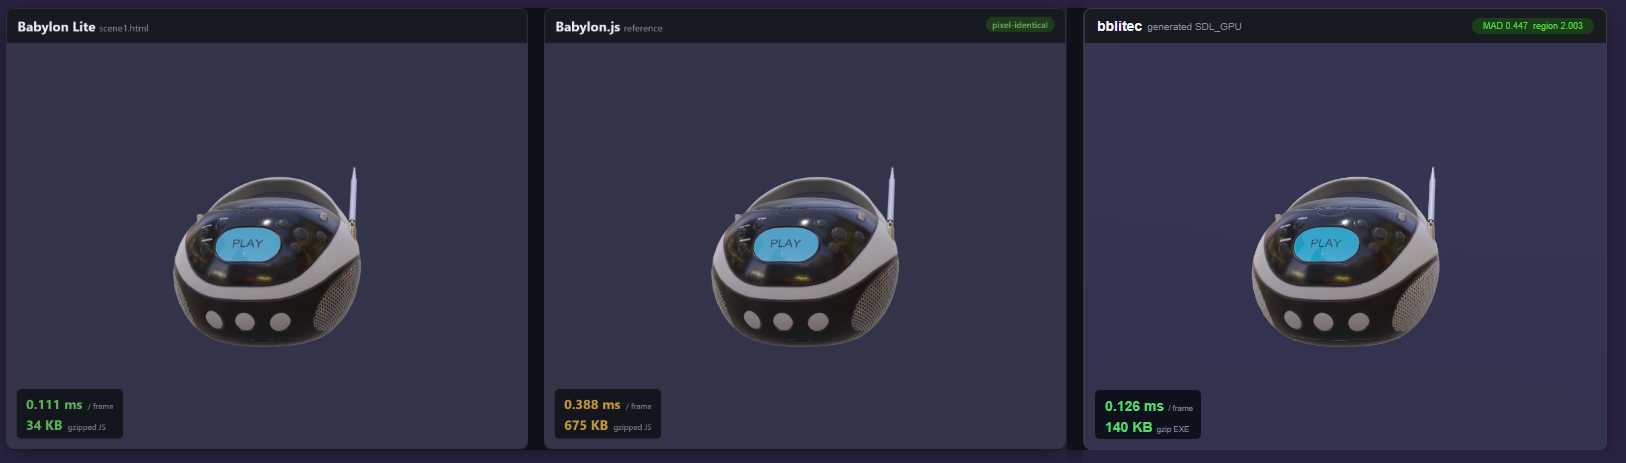
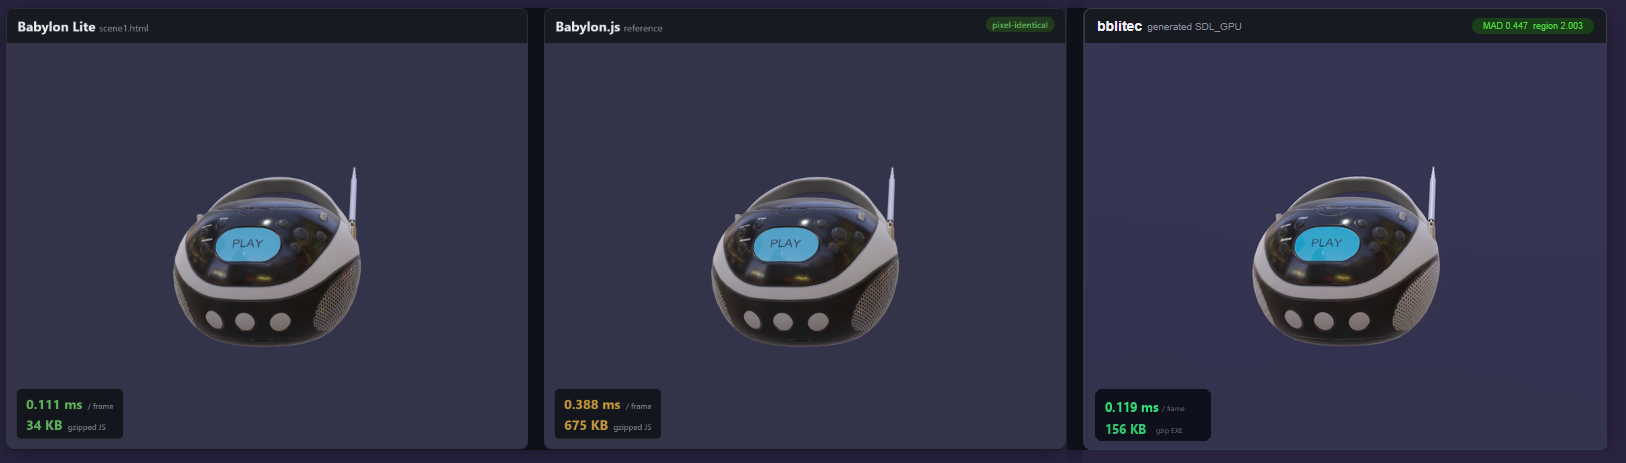
Refresh documentation and BoomBox comparison
Synchronize documentation with the expanded scene/compiler surface and update the generated BoomBox panel from the fresh VS18 capture, parity report, benchmark, and executable size.

Copilot-Session: 87ef8b8e-7295-4ff1-8150-ae097b0a41e5

Changed region(s): [[0.7688, 0.4838, 0.8303, 0.6955], [0.6765, 0.8467, 0.7688, 0.9676], [0.861, 0.4233, 0.8918, 0.4838]]

diff --git a/README.md b/README.md
@@ -5,11 +5,13 @@
 This repository contains a working, deliberately narrow Babylon Lite native compiler prototype. It accepts scene-building TypeScript written against `@babylonjs/lite`, removes browser-only setup, lowers supported API calls to typed C++, and emits a native source manifest containing only the runtime features reached by the program.
 
 Curated targets currently include primitives, the BoomBox glTF demo, and
-Babylon Lite parity scenes including the HillValley Standard-material
-geometry-output target. New repository-local TypeScript scenes
-can also be processed without registry edits: defaults for generated output,
-native build, reference capture, and parity artifacts are derived from the
-source path.
+Babylon Lite parity scenes 10, 13, 32, 116, 145, 146, 163, 168, 248, 257, 266,
+273, and 274. They cover PBR/Standard rendering, external glTF and `.babylon`
+assets, frame-graph geometry/depth outputs, custom shader alpha behavior,
+negative transforms, runtime scene mutation, and alpha-to-coverage. New
+repository-local TypeScript scenes can also be processed without registry
+edits: defaults for generated output, native build, reference capture, and
+parity artifacts are derived from the source path.
 
 **Status:** research prototype. The accepted TypeScript and Babylon Lite API surface is intentionally constrained and validated at transpile time.
 
@@ -91,7 +93,7 @@ runtime module loading, and general browser APIs remain future work.
 The current vertical migration generates these implementations from pinned upstream TypeScript:
 
 - `createEngine` and `startEngine` API wrappers from `engine/engine.ts`, delegating host creation and the run loop to PAL
-- `createHemisphericLight` from `light/hemispheric.ts`
+- hemispheric and point-light factories from pinned light modules
 - `localMatrixFromDirection` from `light/light-matrix.ts`
 - `createArcRotateCamera` from `camera/arc-rotate.ts`
 - `createFreeCamera` and FreeCamera controls from `camera/free-camera.ts` and
@@ -108,12 +110,14 @@ The current vertical migration generates these implementations from pinned upstr
   `loader-babylon/load-babylon.ts`, including inline geometry/submeshes,
   point lights, FreeCamera data, Standard diffuse/ambient/specular/opacity
   textures, alpha cutouts, and cube reflections
-- box/ground mesh factory defaults from `mesh/create-box.ts`, `mesh/create-ground.ts`, and `mesh/mesh-factories.ts`
-- sphere topology from `mesh/create-sphere.ts`
+- box, ground, plane, sphere, and torus geometry from pinned mesh factories
 - `createStandardMaterial` defaults from `material/standard/create-standard-material.ts`
-- solid-texture quantization and `createPbrMaterial` records
+- solid-texture quantization, reached PBR scalar fields, Standard/PBR no-color
+  material views, and typed custom shader variants
 - render-item planning, camera matrices, and PBR uniforms from
   `frame-graph/render-task.ts` and scene uniform sources
+- typed frame-graph render targets/tasks, 7+4 geometry MRTs, viewport blits,
+  depth-only passes, material overrides, and MSAA resolve
 - GGX/Smith lighting, specular AA, SH irradiance, BRDF energy conservation,
   tone mapping, and contrast from the PBR/IBL shader modules
 - transparent background-ground and RGBA16F DDS skybox passes from Babylon
@@ -232,11 +236,20 @@ cd ..\..
 npm run shaders:build
 ```
 
-On the development machine, the optimized BoomBox CPU fallback measured **5.516 ms/frame** average CPU submission. The compiler-generated 4x-MSAA material/IBL/skybox SDL_GPU Direct3D 12 path measured **0.126 ms average / 0.089 ms median**, approximately **44× faster** CPU-side.
+Each configured native build snapshots its reached shaders into that build
+tree. Rebuild the native target after regenerating or recompiling its shaders;
+one scene's regeneration cannot silently change another scene's executable.
+
+On the development machine, the optimized BoomBox CPU fallback measured **5.516 ms/frame** average CPU submission. The freshly regenerated 4x-MSAA material/IBL/skybox SDL_GPU Direct3D 12 path measured **0.119 ms average / 0.083 ms median**, approximately **46× faster** CPU-side.
 
 The GPU path is the default for generated PBR scenes. Set `BBLITE_GPU=0` only when the deterministic CPU fallback is required.
 
-The SDL_GPU path now supports deterministic swapchain readback, ArcRotate mouse controls, normal and metallic-roughness maps, emissive materials, glTF `OPAQUE`/`MASK`/`BLEND` alpha modes, single- and double-sided material buckets, Babylon `.env` cubemap mips, spherical-harmonic irradiance, and the BRDF LUT. Run its local visual regression gate with:
+The SDL_GPU path now supports deterministic swapchain readback, ArcRotate and
+FreeCamera controls, normal and metallic-roughness maps, emissive materials,
+glTF `OPAQUE`/`MASK`/`BLEND` alpha modes, single- and double-sided material
+buckets, typed custom shader variants, alpha testing/blending/coverage,
+offscreen frame-graph passes, Babylon `.env` cubemap mips, spherical-harmonic
+irradiance, and the BRDF LUT. Run its local visual regression gate with:
 
 ```powershell
 npm run parity:boombox:gpu
@@ -329,22 +342,22 @@ and device-specific GPU parity are run on known toolchains and drivers.
 | Engine | `createEngine`, `createSceneContext`, `registerScene`, `startEngine` |
 | Scene | `scene.clearColor`, `scene.camera`, `scene.fixedDeltaMs`, `addToScene`, reached `onBeforeRender` callbacks |
 | Cameras | `createArcRotateCamera`, `createFreeCamera`, `createDefaultCamera`, `attachControl`, `attachFreeControl`, camera projection properties |
-| Lighting | `createHemisphericLight`; point lights loaded from `.babylon` |
-| Geometry | `createBox`, `createGround`, `createPlane`, `createSphere`, `createTorus`, `loadGltf` for triangle GLB files with embedded images, `loadBabylon` for inline triangle geometry/submeshes |
+| Lighting | `createHemisphericLight`, reached `createPointLight`, and point lights loaded from `.babylon` |
+| Geometry | `createBox`, `createGround`, `createPlane`, `createSphere`, `createTorus`, external or binary triangle glTF with PNG/JPEG images, and `loadBabylon` inline geometry/submeshes |
 | Frame graph | `createRenderTarget`, fixed-size depth-only `createRenderTargetTexture`, `createRenderTask`, per-task cameras and `addMesh` material overrides, `createGeometryRendererTask`, ordered task insertion, viewport copies, and MSAA resolve |
 | Environment | `loadEnvironment` with Babylon `.env` irradiance, RGBD specular cubemap mips, BRDF LUT, DDS skybox, and generated ground |
-| Materials | `createStandardMaterial`, Standard/PBR no-color material views, unlit Standard depth-texture display, `.babylon` Standard diffuse/ambient/specular/opacity/cube-reflection textures, glTF metallic-roughness, normal, ORM, emissive, alpha modes, and double-sided state |
+| Materials | `createStandardMaterial`, reached PBR scalar fields, Standard/PBR no-color views, unlit depth-texture display, typed custom shader variants, `.babylon` diffuse/ambient/specular/opacity/reflection textures, and glTF metallic-roughness, normal, ORM, emissive, alpha, and double-sided state |
 | Transforms | `position.set`, `rotation.set`, `scaling.set`, and component assignments on `position`, `rotation`, and `scaling` |
 | Expressions | Numeric literals, variables, `Math.PI`, unary `+/-`, `+ - * /`, callback increments, and numeric conditions |
 | Browser erasure | `document.getElementById(...)`, `document.querySelector(...)`, `HTMLCanvasElement`, `async`, `await`, and the outer `main().catch(...)` |
 
 Current boundaries are intentional: one entry file, one engine, append-only
-runtime scene membership from reached callbacks, embedded-image triangle
-glTF/GLB only, and no arbitrary object
-allocation, animation, skinning, morphing, physics, custom user shaders,
-networking, or audio graph yet. The GPU path uses a depth buffer and generated
-per-pixel PBR/IBL shaders. Material behavior is driven by glTF metadata; there
-are no BoomBox geometry or reference-image heuristics.
+runtime scene membership from reached callbacks, triangle glTF/GLB and the
+reached `.babylon` slice, and no arbitrary object allocation, animation,
+skinning, morphing, physics, general user-defined WGSL, networking, or audio
+graph yet. Custom shaders are limited to typed reached variants. Material
+behavior is driven by source metadata; there are no BoomBox geometry or
+reference-image heuristics.
 
 ## Tree shaking and data layout
 
@@ -363,9 +376,10 @@ Boehm GC remains a reasonable optional compatibility layer once the compiler sup
 1. Replace specialized shader templates with a general composed-WGSL/IR
    lowering pipeline.
 2. Validate Vulkan/SPIR-V and Metal/MSL on real devices.
-3. Add a second unrelated glTF scene as a generalization gate.
-4. Expand TypeScript and glTF coverage: modules, functions, loops, callbacks,
-   animation, skinning, morphing, and extensions.
+3. Add scene 8 as the next contained gate for HDR environments, PBR glass
+   alpha, reflectance, intensities, and image-processing overrides.
+4. Close remaining PBR gaps such as normal scale, occlusion, transparent
+   ordering, and generated-ground composition.
 5. Compile assets into a native packed format and add optional managed
    allocation only for JavaScript semantics that require it.
 

diff --git a/docs/architecture.md b/docs/architecture.md
@@ -68,16 +68,19 @@ For the supported generated scene paths, output owns:
 
 - engine and scene API wrappers
 - scene registration and resource routing
-- ArcRotate camera creation, framing, eye position, inertia, and controls
-- hemispheric light records and local matrices
+- ArcRotate and FreeCamera creation, framing, matrices, inertia, and controls
+- hemispheric and point-light records
 - `.env` parsing and spherical-harmonic conversion
-- typed GLB/JSON parsing, accessors, geometry, hierarchy, materials, and
-  embedded textures
+- external glTF packaging, typed GLB/JSON parsing, accessors, geometry,
+  hierarchy, materials, PNG/JPEG textures, and generated missing normals
+- the reached `.babylon` geometry/material/light/camera slice
 - render-item selection and camera view-projection matrices
-- PBR and background uniform preparation
+- Standard/PBR/custom-shader uniform preparation and reached material views
 - glTF material alpha and double-sided metadata
-- Babylon PBR, IBL, tone mapping, specular AA, DDS skybox, and background
-  shader sources
+- frame-graph render targets/tasks, geometry MRTs, depth-only passes, viewport
+  blits, material overrides, and MSAA resolve
+- Babylon PBR, Standard, custom alpha, IBL, tone mapping, specular AA, DDS
+  skybox, and background shader sources
 
 Generated files are written under `generated/<scene>/upstream`. The
 `provenance.json` file records the upstream modules and symbols used.
@@ -127,7 +130,9 @@ SDL_GPU is the default for generated PBR scenes:
 | macOS / iOS | Metal | MSL |
 
 Shader sources are emitted into `generated/<scene>/upstream/shaders`. DXIL and
-SPIR-V are compiled with DXC; MSL source is emitted directly.
+SPIR-V are compiled with DXC; MSL source is emitted directly. Native builds
+snapshot their reached shader directory so later generation for another scene
+cannot invalidate an existing executable.
 
 Important cross-API details:
 
@@ -140,6 +145,10 @@ Important cross-API details:
   metallic-roughness textures are linear.
 - Material draw buckets honor glTF `OPAQUE`, `MASK`, `BLEND`, alpha cutoff,
   and double-sided flags.
+- Generated frame-graph paths support Standard/PBR geometry outputs, depth-only
+  material views, viewport copies, and hardware MSAA resolve.
+- Typed custom shader variants cover conventional alpha blend/test/discard and
+  alpha-to-coverage; arbitrary user WGSL is not yet accepted.
 - Screenshot capture renders to a readable color texture, blits to the
   write-only swapchain, then downloads from the readable texture.
 

diff --git a/.github/copilot-instructions.md b/.github/copilot-instructions.md
@@ -106,11 +106,15 @@ cmake --build native\build-boombox-release
 cmake --build native\build-scene10-release
 cmake --build native\build-scene13-release
 cmake --build native\build-scene32-release
+cmake --build native\build-scene116-release
+cmake --build native\build-scene145-release
 cmake --build native\build-scene146-release
+cmake --build native\build-scene163-release
 cmake --build native\build-scene168-release
 cmake --build native\build-scene248-release
 cmake --build native\build-scene257-release
 cmake --build native\build-scene266-release
+cmake --build native\build-scene273-release
 cmake --build native\build-scene274-release
 ```
 
@@ -139,11 +143,15 @@ npm run parity:boombox:gpu
 npm run parity:scene10
 npm run parity:scene13
 npm run parity:scene32
+npm run parity:scene116
+npm run parity:scene145
 npm run parity:scene146
+npm run parity:scene163
 npm run parity:scene168
 npm run parity:scene248
 npm run parity:scene257
 npm run parity:scene266
+npm run parity:scene273
 npm run parity:scene274
 npm run parity:diagnostics
 ```
@@ -153,7 +161,7 @@ Current measured baselines:
 - CPU fallback: full MAD `4.452`, foreground MAD `21.191`,
   approximately `5.516 ms/frame`.
 - Generated SDL_GPU/D3D12 with Babylon-default 4x MSAA: full MAD `0.447`,
-  foreground MAD `2.003`, approximately `0.126 ms` average and `0.089 ms`
+  foreground MAD `2.003`, approximately `0.119 ms` average and `0.083 ms`
   median.
 - GPU regression ceilings: full MAD `1.0`, foreground MAD `8.0`.
 - Upstream target: full MAD `0.19`, foreground MAD `0.03`, 99% foreground

diff --git a/docs/status.md b/docs/status.md
@@ -3,8 +3,8 @@
 ## Supported vertical slice
 
 The compiler currently supports the primitives example, the authoritative
-BoomBox parity scene, and Babylon Lite parity scenes 10, 13, 32, 145, 146, 168,
-248, 257, 266, 273, and 274.
+BoomBox parity scene, and Babylon Lite parity scenes 10, 13, 32, 116, 145,
+146, 163, 168, 248, 257, 266, 273, and 274.
 
 | Area | Current support |
 | --- | --- |
@@ -28,9 +28,9 @@ Development machine:
 | Renderer | Full MAD | Foreground MAD | Submission time |
 | --- | ---: | ---: | ---: |
 | CPU fallback | 4.452 | 21.191 | 5.516 ms/frame |
-| Generated SDL_GPU/D3D12, 4x MSAA | 0.447 | 2.003 | 0.126 ms average, 0.089 ms median |
+| Generated SDL_GPU/D3D12, 4x MSAA | 0.447 | 2.003 | 0.119 ms average, 0.083 ms median |
 
-The GPU path is approximately 44 times faster CPU-side than the fallback.
+The GPU path is approximately 46 times faster CPU-side than the fallback.
 
 Current GPU diff attribution:
 
@@ -304,6 +304,8 @@ Remaining compiler work includes:
 1. Replace specialized shader templates with a general Babylon WGSL/IR
    pipeline, potentially using Tint or SDL_shadercross.
 2. Validate generated SPIR-V on Vulkan and MSL on Metal hardware.
-3. Add winding and negative-scale parity targets.
-4. Expand glTF material extensions and animation support toward scene 176.
+3. Add scene 8 for HDR environment loading and PBR glass alpha/intensity
+   controls.
+4. Close the measured Standard/PBR geometry-output residuals and remaining
+   BoomBox material differences.
 5. Continue shrinking PAL to platform-only mechanics.

diff --git a/docs/fidelity.md b/docs/fidelity.md
@@ -132,12 +132,15 @@ hotspots back to the glTF render item.
 
 The same production PBR shader is macro-specialized into a diagnostics MRT
 variant that captures encoded world normal, reflectivity, irradiance, IBL,
-normalized view depth, surface albedo, and direct light. Babylon Lite's public
-PBR geometry-renderer task captures equivalent WebGPU oracles for direct
-buffer-by-buffer comparison. Because SDL_GPU supports at most four color
-targets, the native diagnostics are emitted as two passes over the same scene
-and shader formulas. Both passes use the generated 4x MSAA sample count and
-resolve each attachment before readback, matching Babylon Lite's geometry task.
+normalized view depth, surface albedo, and direct light. Those focused
+BoomBox diagnostics use two passes because SDL_GPU exposes four color targets.
+Both passes use generated 4x MSAA and resolve each attachment before readback.
+
+The generated frame-graph geometry renderer is a separate production path. It
+supports all eleven Babylon geometry texture types split across 7+4 MRT passes,
+optional real color, independent depth, Standard and PBR material views,
+viewport impostor copies, and MSAA resolve. Scenes 145 and 146 gate that path
+against Babylon Lite WebGPU references.
 
 ## Validation artifact meaning
 

diff --git a/TODO.md b/TODO.md
@@ -75,15 +75,16 @@ baselines are recorded in `docs/status.md`.
 - [x] Scene 146: PBR geometry renderer outputs, 7+4 MRT split, blits, and resolve.
 - [x] Scene 145: Standard-material geometry renderer outputs via `loadBabylon`.
 - [x] Scene 116: Standard/PBR no-color depth views and offscreen depth display.
+
 ### Next balanced scene batch
 
 1. [ ] Scene 8: HDR glass, PBR alpha, reflectance, material intensities, and
    exposure/contrast.
 
-This batch deliberately reuses the custom shader and frame-graph work before
-adding two contained runtime/PBR extensions. Scene 176 remains deferred until
-scene-color transmission, IOR, volume, and skybox-mode behavior have smaller
-independent gates.
+Scenes 163, 116, and 273 completed the custom-shader, frame-graph, and runtime
+mutation stages of this batch. Scene 8 is the remaining contained PBR/HDR
+extension. Scene 176 remains deferred until scene-color transmission, IOR,
+volume, and skybox-mode behavior have smaller independent gates.
 
 - [ ] Scene 176: MosquitoInAmber transmission/IOR/volume.
 

diff --git a/docs/development.md b/docs/development.md
@@ -60,6 +60,10 @@ native build. It compiles only that scene's shader directory. Set `VCPKG_ROOT`
 when CMake cannot discover the vcpkg toolchain;
 set `CMAKE_COMMAND` when `cmake` is not on `PATH`.
 
+Native builds snapshot generated shaders under their build directory. After
+regenerating or recompiling a scene's shaders, rebuild that scene's native
+target so its executable and shader snapshot remain an atomic pair.
+
 Parity can also run without registration:
 
 ```powershell
@@ -224,8 +228,9 @@ Outputs are written to `artifacts/parity`:
 Reports include background/edge/interior attribution, signed channel bias, and
 the highest-error foreground tiles. See [fidelity.md](fidelity.md).
 
-The committed golden is
-`reference/boombox/babylon-ref-golden.png`.
+Committed goldens live under `reference/<scene>/`; BoomBox uses
+`reference/boombox/babylon-ref-golden.png`, while source-based suite targets
+use `babylon-lite-golden.png`.
 
 ## Common mistakes
 
